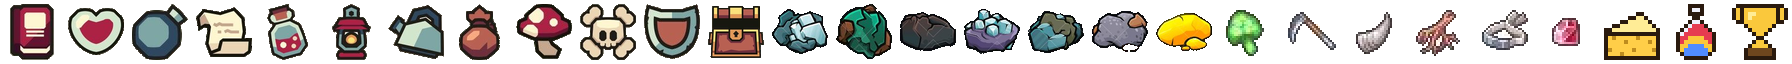
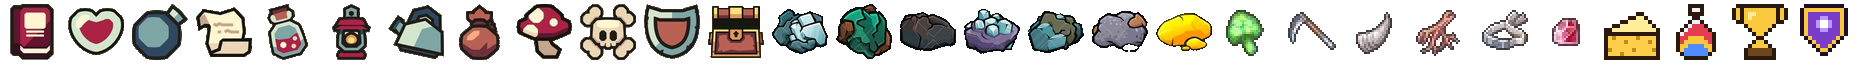
Emblemas con intendente, y durabilidad con reparación
- Emblemas: 1 por jefe, 5 por el titán semanal y 2 (+2 la primera del
  día) en el buscador de mazmorras. Se ven en la mochila.
- Vance, intendente de emblemas (Asociación de Cazadores): equipo épico
  «del Triunfo» para tu clase en cada ranura.
- Durabilidad: el equipo se gasta al recibir golpes y pierde un 10% al
  morir; roto no da estadísticas. Aviso amarillo o rojo en pantalla y
  reparación completa en la forja.
- Ícono de emblema en pixel art.

Claude-Session: https://claude.ai/code/session_012giJR8jrsmCsJ3cu1HsXxX

diff --git a/js/game.js b/js/game.js
@@ -192,7 +192,7 @@ const TAM_BOLSA = 24;
 
 let uidObj = 0;
 // íconos de objetos de uso, cofre y minerales
-const IC3 = {"libro": 0, "corazon": 1, "bomba": 2, "pergamino": 3, "pocion": 4, "farol": 5, "tetera": 6, "bolsa": 7, "seta": 8, "calavera": 9, "escudo": 10, "cofre": 11, "m_plata": 12, "m_cobre": 13, "m_hierro": 14, "m_estano": 15, "m_plomo": 16, "m_zinc": 17, "m_oro": 18, "p_gelatina": 19, "p_guadana": 20, "p_colmillo": 21, "p_pinza": 22, "p_seda": 23, "p_nucleo": 24, "queso": 25, "tinte": 26, "trofeo": 27};
+const IC3 = {"libro": 0, "corazon": 1, "bomba": 2, "pergamino": 3, "pocion": 4, "farol": 5, "tetera": 6, "bolsa": 7, "seta": 8, "calavera": 9, "escudo": 10, "cofre": 11, "m_plata": 12, "m_cobre": 13, "m_hierro": 14, "m_estano": 15, "m_plomo": 16, "m_zinc": 17, "m_oro": 18, "p_gelatina": 19, "p_guadana": 20, "p_colmillo": 21, "p_pinza": 22, "p_seda": 23, "p_nucleo": 24, "queso": 25, "tinte": 26, "trofeo": 27, "emblema": 28};
 const IC3_URL = 'img/ic3.png?v=' + VERSION;
 const IC3_N = Object.keys(IC3).length;
 const IC3_IMG = new Image(); IC3_IMG.src = IC3_URL;
@@ -291,7 +291,7 @@ function crearObjeto(rango, minR = 0, slot = null, rarezaFija = null){
   const bases = RANURAS[slot].bases, base = bases[Math.random() * bases.length | 0];
   const obj = { id:Date.now().toString(36) + '-' + (uidObj++), slot, nombre:r === 4 ? `${base} del Monarca` : `${base} ${SUFIJOS[rango]}`, rareza:r, nivel, stats };
   if (slot === 'arma') obj.dmg = Math.round(presupuesto * 1.2);
-  return obj;
+  return asegurarDur(obj);
 }
 const precioVenta = o => Math.round((4 + o.nivel) * (o.rareza + 1) * 157);
 // dinero como en WoW: todo se guarda en cobre (100 cobre = 1 plata, 100 plata = 1 oro)
@@ -314,8 +314,8 @@ function dineroTxt(c){
 // =====================================================
 //  NAVEGACIÓN
 // =====================================================
-const PANTALLAS = ['pAuth','pMenu','pAyuda','pPersonajes','pCrear','pPausa','pPerfil','pTienda','pForja','pPortal','pMascota','pMuerte','pMision', 'pBuscador', 'pListo'];
-const PANELES_JUEGO = ['pPausa','pPerfil','pTienda','pForja','pPortal','pMascota','pMision','pBuscador'];
+const PANTALLAS = ['pAuth','pMenu','pAyuda','pPersonajes','pCrear','pPausa','pPerfil','pTienda','pForja','pPortal','pMascota','pMuerte','pMision', 'pBuscador', 'pListo', 'pEmblemas'];
+const PANELES_JUEGO = ['pPausa','pPerfil','pTienda','pForja','pPortal','pMascota','pMision','pBuscador','pEmblemas'];
 let pantallaActual = null, ayudaVolver = 'pAuth', perfilVolver = null;
 function pantalla(id){
   pantallaActual = id;
@@ -379,6 +379,8 @@ function migrar(pj){
   pj.talentos = pj.talentos || {};
   if (!('5' in pj.barra)){ const h = BARRA_CLASE[pj.clase] || []; ['5', '6', '7', '8'].forEach((t, i) => pj.barra[t] = h[i] || null); }
   pj.logros = pj.logros || {}; pj.tintes = pj.tintes || [];
+  pj.emblemas = pj.emblemas || 0;
+  for (const o of [...Object.values(pj.equipo), ...pj.bolsa]) if (o) asegurarDur(o);
   if (pj.mascota){ pj.mascota.nivel = pj.mascota.nivel || 1; pj.mascota.xp = pj.mascota.xp || 0; if (pj.mascota.hambre === undefined) pj.mascota.hambre = 100; }
   return pj;
 }
@@ -610,7 +612,7 @@ let cam = { x:0, y:0 }, shake = 0, timerGuardado = 0, interCerca = null, jefeViv
 
 function statsTotales(){
   const s = { ...PJ.stats }; let dmg = 0;
-  for (const it of Object.values(PJ.equipo)) if (it){ for (const k in it.stats) s[k] += it.stats[k]; dmg += it.dmg || 0; }
+  for (const it of Object.values(PJ.equipo)) if (it && !roto(it)){ for (const k in it.stats) s[k] += it.stats[k]; dmg += it.dmg || 0; }
   return { s, dmg };
 }
 function derivar(){
@@ -648,6 +650,7 @@ function empezar(id){
   irPosada('cama');
   if (PJ.mascota && PJ.mascotaActiva) invocarMascota(true);
   banner(`Bienvenido, cazador ${PJ.nombre}`, 'Despiertas en la posada');
+  pintarDurabilidad();
   dibujarAvatar();
   if (window.pintarIcoPet) pintarIcoPet();
 }
@@ -912,8 +915,11 @@ function crearAsociacion(){
   ];
   G.npcs = [
     { spr:'clienta', nombre:'Lucía, la registradora', x:7 * T, y:2.3 * T },
-    { spr:'cliente', nombre:'Ren, el evaluador', x:11 * T, y:5.2 * T }
+    { spr:'cliente', nombre:'Ren, el evaluador', x:11 * T, y:5.2 * T },
+    { spr:'vance', nombre:'Vance, intendente de emblemas', x:3 * T, y:7 * T }
   ];
+  G.obs.push({ x:3 * T, y:7 * T, r:14 });
+  G.inter.push({ x:3 * T, y:7.9 * T, r:56, texto:'Intendente de emblemas', accion:() => abrirEmblemas() });
   G.obs.push({ x:11 * T, y:5.2 * T, r:14 });
   G.tablon = { x:3 * T, y:4.2 * T };
   G.obs.push({ x:G.tablon.x, y:G.tablon.y, r:24 });
@@ -1124,11 +1130,14 @@ function abrirForja(msg){
     <div class="linea"><span>Tu arma</span><b>+${PJ.arma}</b></div>
     <div class="linea"><span>Tu dinero</span><b>${dinero(PJ.oro)}</b></div>
     <div class="linea"><span>Cada mejora</span><b>+5 de daño físico y mágico</b></div>
+    <div class="linea"><span>Reparar todo el equipo</span><b>${costeReparar() ? dinero(costeReparar()) : 'No hace falta'}</b></div>
     <div class="compras">
+      <button class="btn" id="cReparar" ${!costeReparar() || PJ.oro < costeReparar() ? 'disabled' : ''}><span>Reparar todo</span><span>${dinero(costeReparar())}</span></button>
       <button class="btn dorado" id="cArma" ${PJ.oro < p || max ? 'disabled' : ''}><span>${max ? 'Tu arma está al máximo' : `Forjar a +${PJ.arma + 1}`}</span><span>${dinero(p)}</span></button>
       ${botonEncargo('herrero')}
     </div>`;
   enlazarEncargo('herrero');
+  $('cReparar').onclick = () => { if (reparar()) abrirForja('El herrero dejó tu equipo como nuevo.'); };
   $('cArma').onclick = () => { if (PJ.oro >= p && !max){ PJ.oro -= p; PJ.arma++; derivar(); guardar(); chispas(P.x, P.y, '#ff9a3d', 20, 180); abrirForja(`El herrero templó tu arma. Ahora es +${PJ.arma}.`); } };
   pantalla('pForja');
 }
@@ -1287,7 +1296,7 @@ function salirMazmorra(despejada){
 function mazmorraDespejada(){
   const R = E.R;
   E.despejada = true;
-  PJ.limpias[R.l]++; PJ.jefesTotal++; contar('mazmorras'); premioTitan(); premioLFD();
+  PJ.limpias[R.l]++; PJ.jefesTotal++; contar('mazmorras'); darEmblemas(E.semanal ? 5 : 1, E.semanal ? 'titán semanal' : 'jefe derrotado'); premioTitan(); premioLFD();
   const oro = Math.round(80 * R.escala * rand(95, 110)), xp = Math.max(1, Math.round(120 * R.escala * factorXpPortal()));
   PJ.oro += oro;
   E.inter.push({ x:E.jefePos.x, y:E.jefePos.y, r:50, texto:'Volver a la ciudad', accion:() => salirMazmorra(true) });
@@ -1488,6 +1497,7 @@ marcarPantallaCompleta();
 $('btnMascota').onclick = toggleMascota;
 $('btnBolsa').onclick = () => alternarVentana('wBolsa');
 $('btnBuscador').onclick = () => abrirBuscador();
+$('durAviso').onclick = () => { wTab = 'personaje'; abrirVentana('wPj'); };
 $('ojoLFD').onclick = () => abrirBuscador();
 $('btnAceptarGrupo').onclick = () => aceptarGrupo();
 $('btnRechazar').onclick = () => { LFD.listo = false; pantalla(null); chat('Rechazaste el grupo.', '#9a91c2'); actualizarOjo(); };
@@ -1571,6 +1581,7 @@ function lineasObj(o, titulo){
   if (o.dmg) h += `<div class="fila"><span>${Math.round(o.dmg * .85)} - ${Math.round(o.dmg * 1.15)} de daño</span><span>Velocidad 2,40</span></div>`;
   for (const [k, v] of Object.entries(o.stats)) h += `<span>+${v} ${NOMBRE_STAT[k]}</span>`;
   h += `<span class="gris">${R.n}</span>`;
+  asegurarDur(o); h += `<span class="${roto(o) ? 'rojo' : ''}">Durabilidad ${o.dur} / ${o.durMax}${roto(o) ? ' (roto)' : ''}</span>`;
   h += `<span>Precio de venta: ${dinero(precioVenta(o))}</span>`;
   return h;
 }
@@ -1726,7 +1737,7 @@ function renderBolsa(){
   for (const o of PJ.bolsa){ h += `<button class="wslot lleno" data-bo="${o.id}" style="--rc:${RAREZAS[o.rareza].c}" aria-label="${escapar(o.nombre)}">${icoObj(o)}</button>`; n++; }
   const total = Math.max(28, Math.ceil(n / 4) * 4);
   for (; n < total; n++) h += '<div class="wslot"></div>';
-  h += `</div><div class="wbag-pie"><span>${PJ.bolsa.length}/${TAM_BOLSA}</span>${dinero(PJ.oro)}</div>`;
+  h += `</div><div class="wbag-pie"><span>${PJ.bolsa.length}/${TAM_BOLSA}</span><span class="emb" title="Emblemas">${ic3('emblema')}${PJ.emblemas || 0}</span>${dinero(PJ.oro)}</div>`;
   $('wBolsaCuerpo').innerHTML = h;
 }
 
@@ -1912,6 +1923,7 @@ function renderPerfil(){
 }
 
 function recalcular(){
+  pintarDurabilidad();
   const hpA = D.maxHp, enA = D.maxEn;
   derivar();
   P.hp = clamp(P.hp + (D.maxHp - hpA), 1, D.maxHp);
@@ -2515,6 +2527,7 @@ function pintarBuffs(forzar){
 function golpearJugador(d, src){
   if (P.inv > 0) return;
   if (estados.hielo) return;
+  if (Math.random() < .05) gastarDur(0, true);
   d *= (1 - D.def) * efMod.recibe();
   ganarIra(Math.min(20, d / D.maxHp * 120));
   if (src && !src.jefe){
@@ -2528,8 +2541,8 @@ function golpearJugador(d, src){
   chispas(P.x, P.y - 20, '#e2445c', 8, 150);
   if (P.hp <= 0){
     P.hp = 0;
-    const perdida = Math.floor(PJ.oro * .15); PJ.oro -= perdida; guardar();
-    $('muerteTxt').textContent = perdida ? `Perdiste ${dineroTxt(perdida)}. Despertarás en tu cama de la posada.` : 'Despertarás en tu cama de la posada.';
+    const perdida = Math.floor(PJ.oro * .15); PJ.oro -= perdida; gastarDur(.1); guardar();
+    $('muerteTxt').textContent = (perdida ? `Perdiste ${dineroTxt(perdida)}. ` : '') + 'Tu equipo perdió un 10% de durabilidad. Despertarás en tu cama de la posada.';
     limpiarEfectos(false);
     pantalla('pMuerte');
   }
@@ -4624,8 +4637,77 @@ function premioLFD(){
   if (!E.lfd) return;
   let em = 2, txt = '';
   if (PJ.lfdDia !== diaHoy()){ PJ.lfdDia = diaHoy(); em += 2; const oro = 8000 * (1 + E.rango); PJ.oro += oro; txt = ` y la bolsa del día (${dineroTxt(oro)})`; }
-  PJ.emblemas = (PJ.emblemas || 0) + em;
-  chat(`Buscador de mazmorras: recibes ${em} emblemas${txt}.`, '#ffd100');
+  darEmblemas(em, `buscador de mazmorras${txt}`);
+}
+
+// =====================================================
+//  EMBLEMAS Y DURABILIDAD
+// =====================================================
+// durabilidad: el equipo se gasta al recibir golpes y al morir; roto (0) no da estadísticas. Se repara en la forja.
+const durMaxDe = o => 60 + (o.rareza || 0) * 15;
+function asegurarDur(o){ if (o && o.dur === undefined){ o.durMax = durMaxDe(o); o.dur = o.durMax; } return o; }
+const roto = o => o && o.dur !== undefined && o.dur <= 0;
+function gastarDur(frac, alAzar){
+  const piezas = Object.values(PJ.equipo).filter(Boolean).map(asegurarDur);
+  if (!piezas.length) return;
+  const antes = piezas.filter(roto).length;
+  if (alAzar){ const o = piezas[Math.random() * piezas.length | 0]; o.dur = Math.max(0, o.dur - 1); }
+  else for (const o of piezas) o.dur = Math.max(0, Math.floor(o.dur - o.durMax * frac));
+  if (piezas.filter(roto).length > antes){ derivar(); chat('Una pieza de tu equipo se ha roto: ya no te da estadísticas. Repárala en la forja.', '#ff5a5a'); }
+  pintarDurabilidad();
+}
+const costeReparar = () => Object.values(PJ.equipo).filter(Boolean).map(asegurarDur).reduce((a, o) => a + (o.durMax - o.dur) * (o.nivel + 5) * 4 * (1 + o.rareza * .5), 0) | 0;
+function reparar(){
+  const c = costeReparar(); if (!c || PJ.oro < c) return false;
+  PJ.oro -= c; for (const o of Object.values(PJ.equipo)) if (o){ asegurarDur(o); o.dur = o.durMax; }
+  derivar(); pintarDurabilidad(); guardar(); return true;
+}
+// aviso de equipo dañado (como la figurita amarilla o roja de WoW)
+function pintarDurabilidad(){
+  const el = $('durAviso'); if (!el || !PJ) return;
+  const piezas = Object.values(PJ.equipo).filter(Boolean).map(asegurarDur);
+  const min = piezas.length ? Math.min(...piezas.map(o => o.dur / o.durMax)) : 1;
+  el.classList.toggle('oculto', min > .25);
+  el.classList.toggle('rojo', min <= 0);
+  el.title = min <= 0 ? 'Tienes equipo roto' : 'Tu equipo está muy dañado';
+  el.querySelector('span').textContent = min <= 0 ? 'Equipo roto' : `Equipo ${Math.round(min * 100)}%`;
+}
+
+// emblemas: los dan los jefes (más en el buscador, el titán y los jefes de mundo); se cambian por equipo épico
+function darEmblemas(n, motivo){
+  PJ.emblemas = (PJ.emblemas || 0) + n;
+  texto(P.x, P.y - 96, `+${n} emblema${n > 1 ? 's' : ''}`, '#b98bff', 14);
+  if (motivo) chat(`Recibes ${n} emblema${n > 1 ? 's' : ''} (${motivo}).`, '#b98bff');
+}
+const STAT_CLASE = { guerrero:['fue','vit'], sombra:['agi','fue'], mago:['int','vit'] };
+const PRECIO_EMB = { cabeza:30, amuleto:20, pecho:35, manos:20, piernas:30, pies:20, anillo:15, arma:45 };
+function objetoEmblema(slot, rango){
+  const nivel = UMBRAL_RANGO[rango] + 10, pres = (3 + nivel * .7) * RAREZAS[3].m * 1.15, [a, b] = STAT_CLASE[PJ.clase];
+  const base = { arma:{ guerrero:'Espada', sombra:'Daga', mago:'Báculo' }[PJ.clase] }[slot] || RANURAS[slot].bases[0];
+  const o = { id:'emb-' + slot + '-' + rango + '-' + Date.now().toString(36) + (uidObj++), slot, nombre:`${base} del Triunfo`, rareza:3, nivel,
+    stats:{ [a]:Math.round(pres * .6), [b]:Math.round(pres * .4) } };
+  if (slot === 'arma') o.dmg = Math.round(pres * 1.25);
+  return asegurarDur(o);
+}
+function abrirEmblemas(msg){
+  const r = rangoCazador(), em = PJ.emblemas || 0;
+  let h = `<p style="color:var(--xp);min-height:1.3em">${msg || ''}</p>
+    <div class="linea"><span>Tus emblemas</span><b class="emb">${ic3('emblema')} ${em}</b></div>
+    <p class="nota" style="margin:6px 0">Equipo épico para tu clase (nivel de objeto ${UMBRAL_RANGO[r] + 10}). Los emblemas se ganan derrotando jefes: más en el buscador de mazmorras, el titán semanal y los jefes de mundo.</p><div class="emb-lista">`;
+  for (const slot of Object.keys(RANURAS)){
+    const o = objetoEmblema(slot, r), p = PRECIO_EMB[slot];
+    h += `<div class="emb-fila"><span class="emb-ic" style="--rc:${RAREZAS[3].c}">${icoObj(o)}</span><div><b style="color:${RAREZAS[3].c}">${o.nombre}</b>
+      <small>${RANURAS[slot].n} · ${Object.entries(o.stats).map(([k, v]) => `+${v} ${NOMBRE_STAT[k]}`).join(', ')}${o.dmg ? ` · ${o.dmg} de daño` : ''}</small></div>
+      <button class="btn" data-emb="${slot}" ${em < p || PJ.bolsa.length >= TAM_BOLSA ? 'disabled' : ''}>${p} ${ic3('emblema')}</button></div>`;
+  }
+  $('embCuerpo').innerHTML = h + '</div>';
+  $('embCuerpo').querySelectorAll('[data-emb]').forEach(b => b.onclick = () => {
+    const slot = b.dataset.emb, p = PRECIO_EMB[slot];
+    if ((PJ.emblemas || 0) < p || PJ.bolsa.length >= TAM_BOLSA) return;
+    const o = objetoEmblema(slot, rangoCazador()); PJ.emblemas -= p; PJ.bolsa.push(o); guardar(); sfx('botin');
+    abrirEmblemas(`Compraste [${o.nombre}]. Está en tu mochila.`);
+  });
+  pantalla('pEmblemas');
 }
 
 // =====================================================

diff --git a/css/style.css b/css/style.css
@@ -860,3 +860,23 @@ body.tactil .wv-cuerpo{flex:1 1 auto;min-height:0;overflow-y:auto;-webkit-overfl
 .busc-sel{display:flex;gap:8px;align-items:center;margin:8px 0;font:700 13px Rajdhani,sans-serif}
 .busc-sel select{flex:1;padding:4px;background:#120d0a;color:#ffd100;border:1px solid #5a4a2a;font:600 13px Rajdhani,sans-serif}
 @media (max-width:520px){ #grupo{top:auto;bottom:calc(200px + env(safe-area-inset-bottom,0px));width:140px} }
+
+/* ---------- emblemas y durabilidad ---------- */
+.emb{display:inline-flex;align-items:center;gap:3px;color:#d2b4ff;font-weight:700}
+.emb .ic3{width:20px;height:20px;image-rendering:pixelated}
+.btn .ic3{width:20px;height:20px;vertical-align:middle;image-rendering:pixelated}
+.emb-lista{display:flex;flex-direction:column;gap:5px;max-height:52vh;overflow:auto}
+.emb-fila{display:flex;align-items:center;gap:8px;padding:4px;border:1px solid rgba(163,53,238,.35);border-radius:4px;background:rgba(163,53,238,.06)}
+.emb-fila>div{flex:1;min-width:0}
+.emb-fila b{display:block;font:700 13px Rajdhani,sans-serif}
+.emb-fila small{display:block;font:500 12px Rajdhani,sans-serif;color:#cfc4a8}
+.emb-fila .btn{min-width:0;padding:4px 10px;font-size:13px;white-space:nowrap}
+.emb-ic{width:36px;height:36px;flex-shrink:0;border:2px solid var(--rc);border-radius:4px;display:grid;place-items:center;background:#120d0a}
+.emb-ic .ico-obj{width:32px;height:32px}
+#durAviso{position:fixed;right:12px;top:calc(200px + env(safe-area-inset-top,0px));z-index:3;display:flex;gap:4px;align-items:center;padding:3px 8px;cursor:pointer;
+  font:700 12px Rajdhani,sans-serif;color:#ffd100;background:rgba(40,30,0,.85);border:1px solid #ffd100;border-radius:6px}
+#durAviso b{font-size:15px}
+#durAviso.rojo{color:#ff5a5a;border-color:#ff5a5a;background:rgba(50,0,0,.85)}
+#durAviso.oculto{display:none}
+.rojo{color:#ff5a5a}
+@media (max-width:520px){ #durAviso{top:auto;bottom:calc(250px + env(safe-area-inset-bottom,0px))} }

diff --git a/index.html b/index.html
@@ -44,6 +44,7 @@
   <div class="marco odo oculto" id="marcoOdO" title="Objetivo de tu objetivo"><small>ataca a</small><b id="odoNombre"></b><div class="barra vida"><span id="odoFill"></span></div></div>
   </div>
 </div>
+<button id="durAviso" class="oculto" title="Tu equipo está dañado"><b>⚒</b><span></span></button>
 <div id="grupo" class="oculto" aria-label="Tu grupo"></div>
 <button id="ojoLFD" class="oculto" title="Buscando grupo"><b>👁</b><span>0:00</span></button>
 <div id="jefe" class="oculto"><p id="jefeNombre"></p><div class="barra"><span id="jefeFill"></span></div></div>
@@ -285,6 +286,12 @@
   <p class="tenue" id="listoTxt"></p>
   <p class="tenue">Tiempo para aceptar: <b id="listoT">40</b> s</p>
   <div class="menu fila"><button class="btn" id="btnRechazar">Rechazar</button><button class="btn principal" id="btnAceptarGrupo">Entrar</button></div>
+</div>
+<div id="pEmblemas" class="overlay oculto">
+  <h2>Intendente de emblemas</h2>
+  <p class="tenue">«Cada jefe que derribas vale algo, cazador. Aquí lo convertimos en acero.»</p>
+  <div class="panel" id="embCuerpo"></div>
+  <button class="btn principal" data-cerrar>Salir</button>
 </div>
 <div id="pMuerte" class="overlay oculto">
   <h2>Has caído</h2>
